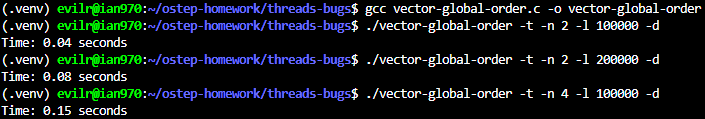
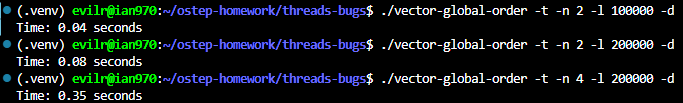
ch32 hw completed

diff --git a/threads-bugs/hw/questions.md b/threads-bugs/hw/questions.md
@@ -1,0 +1,166 @@
+# Homework (Code)
+
+This homework lets you explore some real code that deadlocks (or avoids deadlock). The different versions of code correspond to different approaches to avoiding deadlock in a simplified vector_add() routine. See the README for details on these programs and their common substrate.
+
+## Questions
+
+1. First let’s make sure you understand how the programs generally work, and some of the key options. Study the code in vector-deadlock.c, as well as in main-common.c and related files. Now, run ./vector-deadlock -n 2 -l 1 -v, which instantiates two threads (-n 2), each of which does one vector add (-l 1), and does so in verbose mode (-v). Make sure you understand the output. How does the output change from run to run?
+
+    > ![q1](./q1.png)
+
+    ```text
+    How does the output change from run to run?
+    When running ./vector-deadlock -n 2 -l 1 -v multiple times, the execution order of the threads changes.
+
+    In most runs, Thread 0 executes and completes its entire vector addition before Thread 1 starts (printing ->add(0, 1) and <-add(0, 1) without indentation, followed by the indented prints of Thread 1). However, in some runs, Thread 1 gets scheduled first and completes its task before Thread 0 even begins.
+
+    This output variation perfectly demonstrates the non-deterministic nature of the OS thread scheduler. Because the vector addition task is extremely short, context switches rarely happen mid-execution. Instead, the non-determinism is shown by which thread the OS chooses to run first. Since both threads acquire the locks in the exact same order (without the -d flag), no deadlock occurs, but the overall execution order remains unpredictable.
+    ```
+
+2. Now add the -d flag, and change the number of loops (-l) from 1 to higher numbers. What happens? Does the code (always) deadlock?
+
+    ![q2](./q2.png)
+
+    **What happens?**
+    When executing the program with the `-d` flag and a high number of loops, the program eventually hangs and fails to terminate. As observed in the terminal output, the execution simply stops abruptly without completing all iterations.
+
+    **Does the code (always) deadlock?**
+    Yes, under these specific parameters, the code is practically guaranteed to deadlock.
+
+    **Explanation:**
+
+    - **Flipped Argument Order:** Adding the `-d` flag sets the `cause_deadlock` variable to `1`. This triggers a condition in the thread creation loop where odd-numbered threads (like Thread 1) have their `vector_add_order` set to `1`. Consequently, Thread 0 calls `vector_add(0, 1)` while Thread 1 calls `vector_add(1, 0)`.
+
+    - **Circular Wait:** Because `vector_add` acquires locks based on the order of the provided arguments, Thread 0 attempts to lock `v0` then `v1`, while Thread 1 attempts to lock `v1` then `v0`.
+
+    - **Context Switch & Delay:** The `-d` flag also introduces an artificial delay right after the first lock is acquired. Combined with a high number of loops (`-l`), this maximizes the probability of a context switch happening at the exact moment Thread 0 holds the lock for `v0` and Thread 1 holds the lock for `v1`. Both threads then block indefinitely waiting for the other's lock, fulfilling the necessary conditions for a deadlock.
+
+3. How does changing the number of threads (-n) change the outcome of the program? Are there any values of -n that ensure no deadlock occurs?
+
+    Increasing the number of threads (`-n`) introduces the possibility of deadlocks when combined with the `-d` flag. The code in `main-common.c` flips the vector addition order specifically for threads with an odd ID (`i % 2 == 1`) when the deadlock flag is enabled. Therefore, if `-n` is 2 or greater, the program creates a mix of threads attempting to acquire locks in opposite directions, establishing the circular wait condition.
+
+    To ensure no deadlock occurs regardless of the `-d` flag, you can set **`-n 1`**. With only a single thread executing, there is no concurrent contention for resources, making a circular wait impossible.
+
+4. Now examine the code in vector-global-order.c. First, make sure you understand what the code is trying to do; do you understand why the code avoids deadlock? Also, why is there a special case in this vector_add() routine when the source and destination vectors are the same?
+
+    ```c
+        if (v_dst < v_src) {
+        Pthread_mutex_lock(&v_dst->lock);
+        Pthread_mutex_lock(&v_src->lock);
+        } else if (v_dst > v_src) {
+        Pthread_mutex_lock(&v_src->lock);
+        Pthread_mutex_lock(&v_dst->lock);
+        } else {
+        // ...
+    ```
+
+    **How does `vector-global-order.c` avoid deadlock?**
+    `vector-global-order.c` avoids deadlock by establishing a strict, global order for lock acquisition based on the memory addresses of the vector pointers `[cite: 3]`.
+
+    Instead of acquiring locks based on the arbitrary order of the provided arguments (`v_dst` and `v_src`), the code compares their pointer values using `if (v_dst < v_src)`. By guaranteeing that the vector with the lower memory address is always locked first, it ensures that all threads will request the locks in the exact same sequence, regardless of how the arguments were passed to the function. This effectively eliminates the "Circular Wait" condition required for a deadlock to occur.
+
+5. Now run the code with the following flags: -t -n 2 -l 100000 -d. How long does the code take to complete? How does the total time change when you increase the number of loops, or the number of threads?
+
+    ![q5](./q5.png)
+
+    Based on the execution results:
+
+    - Running with the baseline flags (`./vector-global-order -t -n 2 -l 100000 -d`) takes approximately **0.04 seconds**.
+    - **Increasing the loops:** When doubling the number of loops to 200,000 (`-l 200000`), the execution time roughly doubles (to **0.08 seconds**). The time increases linearly because the amount of computational work per thread has linearly increased.
+    - **Increasing the threads:** When increasing the number of threads to 4 (`-n 4 -l 200000`), the execution time spikes significantly (to **0.35 seconds**). The time increases non-linearly because adding more threads exponentially increases lock contention. All threads are fighting for the exact same locks (vector 0 and vector 1), causing significant overhead from blocking, context switching, and kernel scheduling.
+
+6. What happens if you turn on the parallelism flag (-p)? How much would you expect performance to change when each thread is working on adding different vectors (which is what -p enables) versus working on the same ones?
+
+    ![q6](./q6.png)
+
+    ```c
+    // main.common.c
+    if (enable_parallelism == 0) {
+        args[i].vector_0 = 0;
+        args[i].vector_1 = 1;
+    } else {
+        args[i].vector_0 = i * 2;
+        args[i].vector_1 = i * 2 + 1;
+    }
+    ```
+
+    Turning on the parallelism flag (`-p`) changes the argument assignment logic so that each thread operates on a completely independent pair of vectors (e.g., Thread 0 uses vectors 0 and 1, while Thread 1 uses vectors 2 and 3).
+
+    I would expect a dramatic improvement in performance. Since the threads are no longer fighting for the same mutex locks, lock contention drops to absolute zero. The operating system does not need to block threads or perform excessive context switches. The performance should scale near-linearly with the number of available CPU cores, meaning multiple threads will finish the task in roughly the same amount of time it takes a single thread to run, rather than slowing each other down.
+
+7. Now let’s study vector-try-wait.c. First make sure you understand the code. Is the first call to pthread_mutex_trylock() really needed? Now run the code. How fast does it run compared to the global order approach? How does the number of retries, as counted by the code, change as the number of threads increases?
+
+    ```c
+    top:
+        if (pthread_mutex_trylock(&v_dst->lock) != 0) {
+        goto top;
+        }
+        if (pthread_mutex_trylock(&v_src->lock) != 0) {
+        retry++;
+        Pthread_mutex_unlock(&v_dst->lock);
+        goto top;
+        }
+
+    ```
+
+    **How does `vector-try-wait.c` avoid deadlock?**
+    `vector-try-wait.c` avoids deadlock by breaking the "Hold and Wait" condition. Instead of using a blocking lock, it uses `pthread_mutex_trylock()` `[cite: 6]`. If a thread successfully acquires the first lock (`v_dst`) but fails to acquire the second lock (`v_src`), it does not wait. Instead, it immediately releases the first lock and jumps back to the beginning to retry the entire process `[cite: 6]`. Because a thread never holds onto one lock while waiting for another, a deadlock cannot occur.
+
+    **What is the potential issue with this approach?**
+    The main problem with this approach is the risk of **Livelock** and poor CPU utilization. If two threads perfectly synchronize their attempts, they might repeatedly acquire their first lock, fail to get the second, release the first lock, and loop again simultaneously `[cite: 6]`. While the threads are not technically blocked (as in a deadlock), they are stuck in an endless cycle of yielding and retrying without making any actual progress, severely wasting CPU cycles in the process.
+
+8. Now let’s look at vector-avoid-hold-and-wait.c. What is the main problem with this approach? How does its performance compare to the other versions, when running both with -p and without it?
+
+    ```c
+    // use this to make lock acquisition ATOMIC
+    pthread_mutex_t global = PTHREAD_MUTEX_INITIALIZER; 
+
+    void vector_add(vector_t *v_dst, vector_t *v_src) {
+        // put GLOBAL lock around all lock acquisition...
+        Pthread_mutex_lock(&global);
+        Pthread_mutex_lock(&v_dst->lock);
+        Pthread_mutex_lock(&v_src->lock);
+        Pthread_mutex_unlock(&global);
+        // ... 
+
+    ```
+
+    **How does `vector-avoid-hold-and-wait.c` avoid deadlock?**
+    This approach avoids deadlock by using a single global mutex (`global`) to protect the entire lock acquisition phase. By wrapping the locking of `v_dst` and `v_src` inside this global lock, it ensures that acquiring multiple locks becomes an atomic operation. No two threads can be in the process of acquiring vector locks at the same time, which completely prevents the interleaving that leads to "Hold and Wait" and "Circular Wait" conditions.
+
+    **What is the performance implication of this approach?**
+    The major drawback is a severe reduction in concurrency and performance. Because every thread must acquire the same global lock before acquiring its specific vector locks, it creates a massive bottleneck. Even if multiple threads are trying to operate on entirely independent pairs of vectors (e.g., Thread 0 operates on Vectors A and B, while Thread 1 operates on Vectors C and D), they are still forced to wait in line for the global lock. This serialization defeats the primary purpose of multi-threading.
+
+9. Finally, let’s look at vector-nolock.c. This version doesn’t use locks at all; does it provide the exact same semantics as the other versions? Why or why not?
+
+    ```c
+    // taken from <https://en.wikipedia.org/wiki/Fetch-and-add>
+    int fetch_and_add(int *variable, int value) {
+        asm volatile("lock; xaddl %%eax, %2;"
+            :"=a" (value)
+            :"a" (value), "m" (*variable)  
+            :"memory");
+        return value;
+    }
+
+    void vector_add(vector_t *v_dst, vector_t*v_src) {
+        int i;
+        for (i = 0; i < VECTOR_SIZE; i++) {
+        fetch_and_add(&v_dst->values[i], v_src->values[i]);
+        }
+    }
+
+    ```
+
+    **How does `vector-nolock.c` avoid deadlock?**
+    `vector-nolock.c` avoids deadlock completely by eliminating the use of software locks (mutexes). Since threads do not acquire or wait for any locks, the necessary conditions for a deadlock (such as "Hold and Wait" and "Circular Wait") simply cannot exist.
+
+    Instead of locking the entire vector, it utilizes a hardware-level atomic instruction (specifically, an x86 assembly `lock xaddl` instruction via the `fetch_and_add` function) to perform the addition. This guarantees that the read-modify-write cycle for each individual integer addition is performed atomically by the CPU. This lock-free approach not only eliminates deadlocks but also avoids the performance overhead associated with thread blocking and context switching.
+
+10. Now compare its performance to the other versions, both when threads are working on the same two vectors (no -p) and when each thread is working on separate vectors (-p). How does this no-lock version perform?
+
+    Contrary to the initial intuition that a lock-free approach is always faster, the `vector-nolock.c` version actually performs **worse** than the mutex-based `vector-global-order` in both scenarios.
+
+    - **With `-p` (Working on separate vectors):** The `vector-nolock` version (0.16s) is slower than the global-order version (0.06s). This happens because of the **granularity** of the operations. In the mutex version, a thread acquires the lock once, performs 100 normal memory additions (`VECTOR_SIZE`), and releases the lock. In the no-lock version, the thread must execute a heavy hardware atomic instruction (`lock xaddl`) 100 times per vector addition. The overhead of executing 100 atomic bus-locking instructions far outweighs the cost of acquiring an uncontended mutex once.
+
+    - **Without `-p` (Working on the same vectors):** The performance of `vector-nolock` degrades severely (1.60s compared to global-order's 0.35s). Because 4 threads are continuously executing atomic writes to the exact same memory addresses in a tight loop, it causes a massive **cache invalidation storm (cache line bouncing)**. Each core constantly invalidates the cache lines of the other cores, forcing them to repeatedly fetch data from the slower L3 cache or main memory. The mutex version avoids this hardware-level bottleneck by allowing one thread to monopolize the cache for the entire duration of the vector addition while the others sleep.
